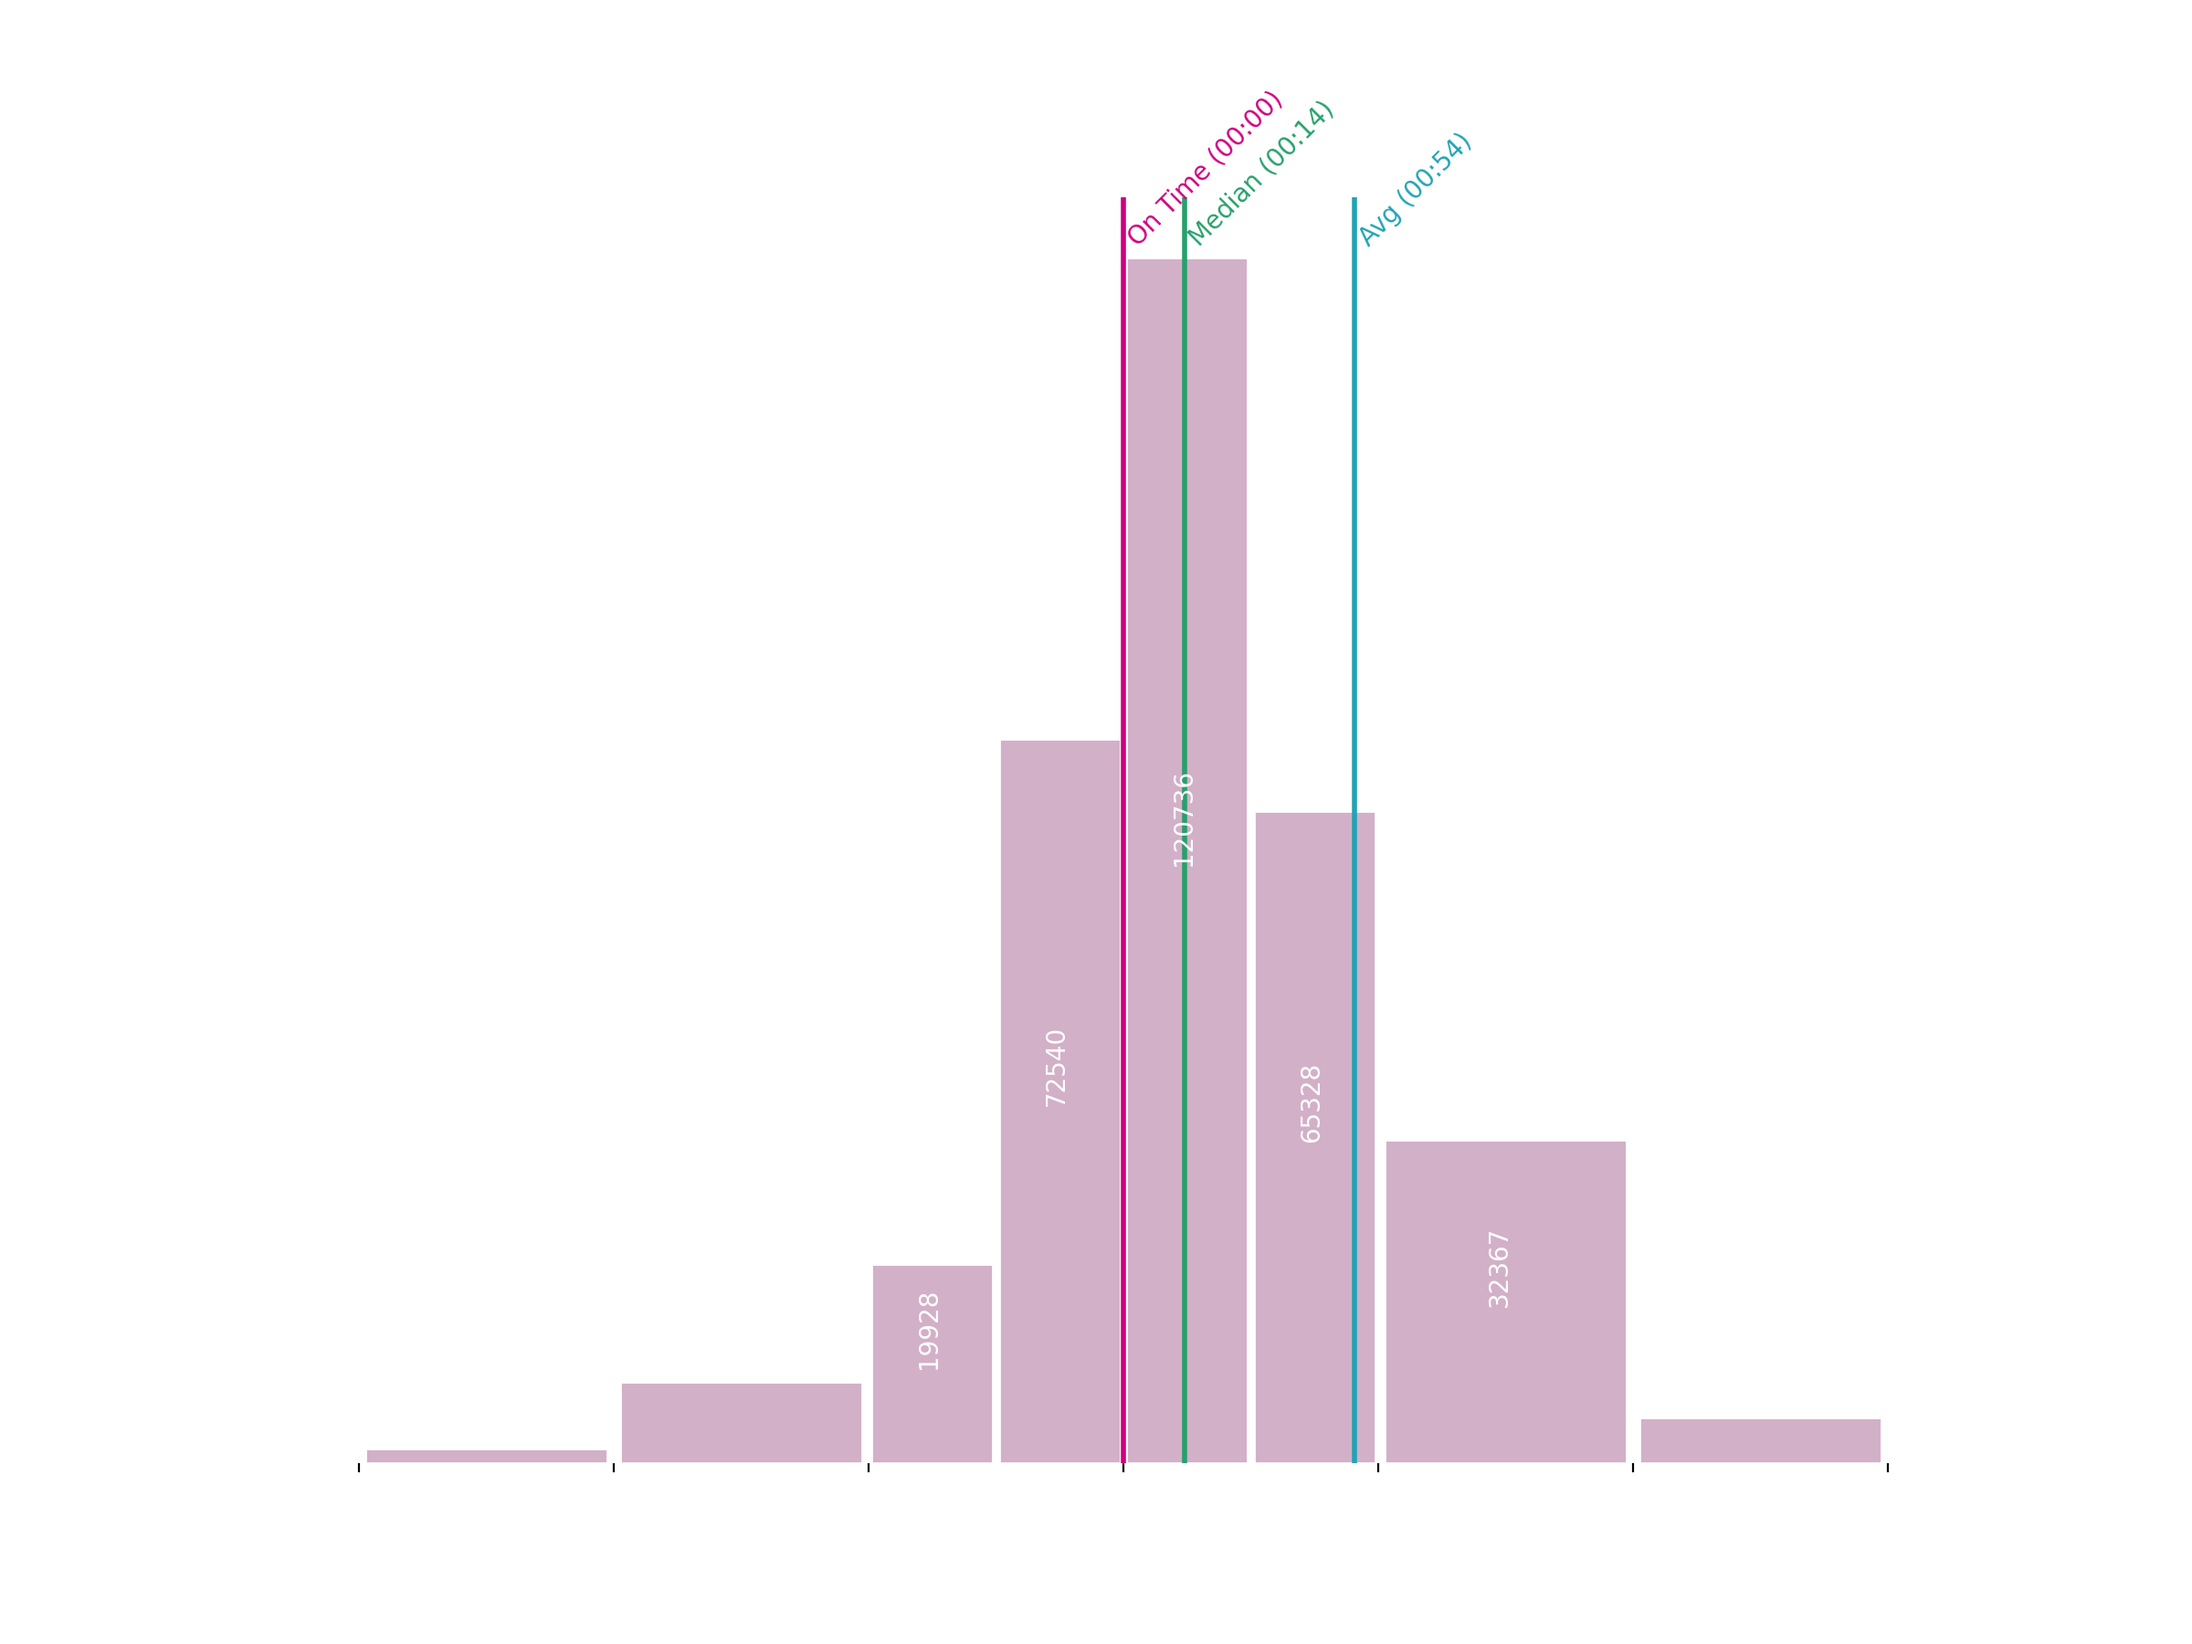
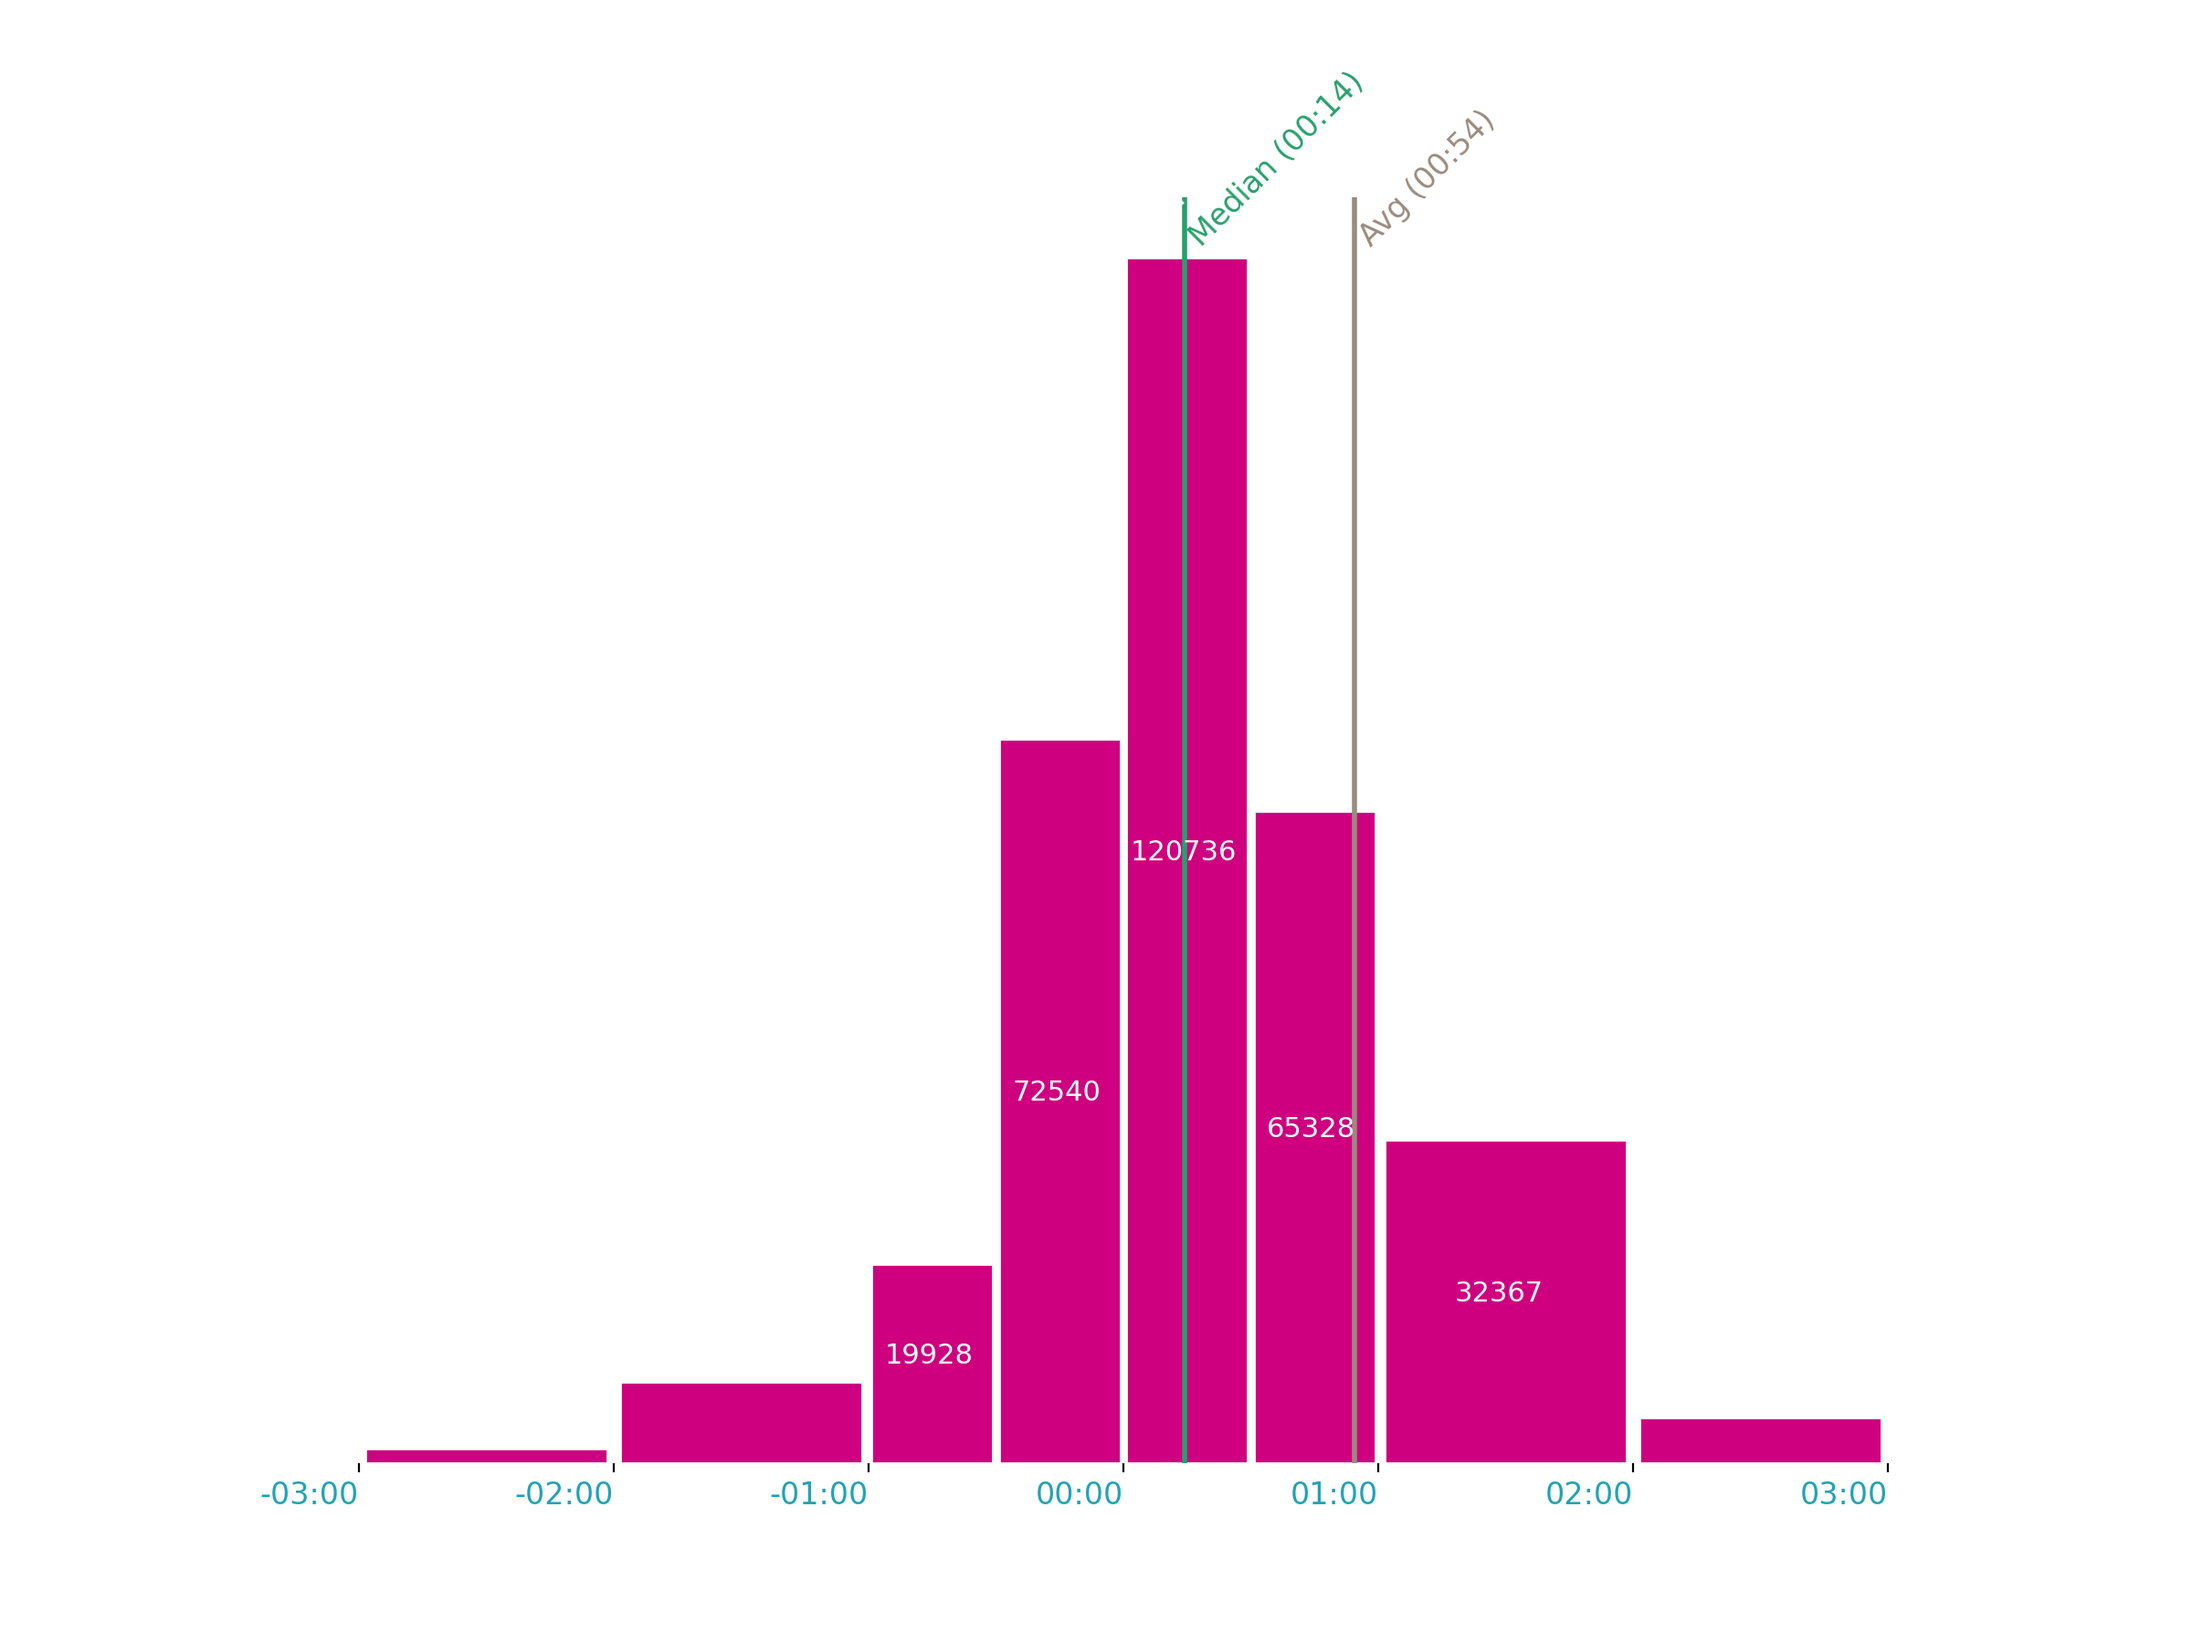
updated fastpark graph

diff --git a/modules/viz/fastpark.py b/modules/viz/fastpark.py
@@ -39,7 +39,7 @@ def plot_distribution(hist_df: pd.DataFrame, mode: str, output_path: str) -> Non
     counts_col = "Entry Count" if mode == "entry" else "Exit Count"
     avg_line = df["Avg Entry Line"].iloc[0] if mode == "entry" else df["Avg Exit Line"].iloc[0]
     med_line = df["Median Entry Line"].iloc[0] if mode == "entry" else df["Median Exit Line"].iloc[0]
-    bar_color = "#D2B0C8" if mode == "entry" else "#C1C1FF"
+    bar_color = "#ce007f" if mode == "entry" else "#22a3b5"
 
     # Bar geometry
     starts = df["Bin Start"].to_numpy()
@@ -63,8 +63,8 @@ def plot_distribution(hist_df: pd.DataFrame, mode: str, output_path: str) -> Non
     max_h = counts.max() if counts.size else 0
     if max_h > 0:
         ax.set_ylim(0, max_h * 1.05)
-        ax.axvline(0, color="#ce007f", linewidth=2)
-        ax.axvline(avg_line, color="#22a3b5", linewidth=2)
+        ax.axvline(0, color="white", linewidth=2)
+        ax.axvline(avg_line, color="#9A8B7D", linewidth=2)
         ax.axvline(med_line, color="#27a06b", linewidth=2)
 
     # Formatter
@@ -76,9 +76,9 @@ def plot_distribution(hist_df: pd.DataFrame, mode: str, output_path: str) -> Non
     # Line labels
     if max_h > 0:
         y = max_h * 1.01
-        ax.text(0, y, "On Time (00:00)", rotation=45, ha="left", color="#ce007f")
-        ax.text(avg_line, y, f"Avg ({hhmm(avg_line)})", rotation=45, ha="left", color="#22a3b5")
-        ax.text(med_line, y, f"Median ({hhmm(med_line)})", rotation=45, ha="left", color="#27a06b")
+        ax.text(0, y, "On Time (00:00)", rotation=45, ha="left", color="white", fontsize=12)
+        ax.text(avg_line, y, f"Avg ({hhmm(avg_line)})", rotation=45, ha="left", color="#9A8B7D", fontsize=12)
+        ax.text(med_line, y, f"Median ({hhmm(med_line)})", rotation=45, ha="left", color="#27a06b", fontsize=12)
 
     # Bar labels
     for s, w, c in zip(starts, adj, counts):
@@ -102,8 +102,8 @@ def plot_distribution(hist_df: pd.DataFrame, mode: str, output_path: str) -> Non
             ypos,
             f"{int(c)}",
             ha="center",
-            rotation=90,
-            color="white"
+            color="white",
+            fontsize=11
         )
 
 
@@ -111,7 +111,7 @@ def plot_distribution(hist_df: pd.DataFrame, mode: str, output_path: str) -> Non
     ax.set_xlim(-200, 200)
     ticks = np.arange(-180, 181, 60)
     ax.set_xticks(ticks)
-    ax.set_xticklabels([hhmm(t) for t in ticks], rotation=45, ha="right", color="white")
+    ax.set_xticklabels([hhmm(t) for t in ticks], ha="right", color="#22a3b5", fontsize=12)
 
     # Minimal chrome
     ax.yaxis.set_visible(False)
